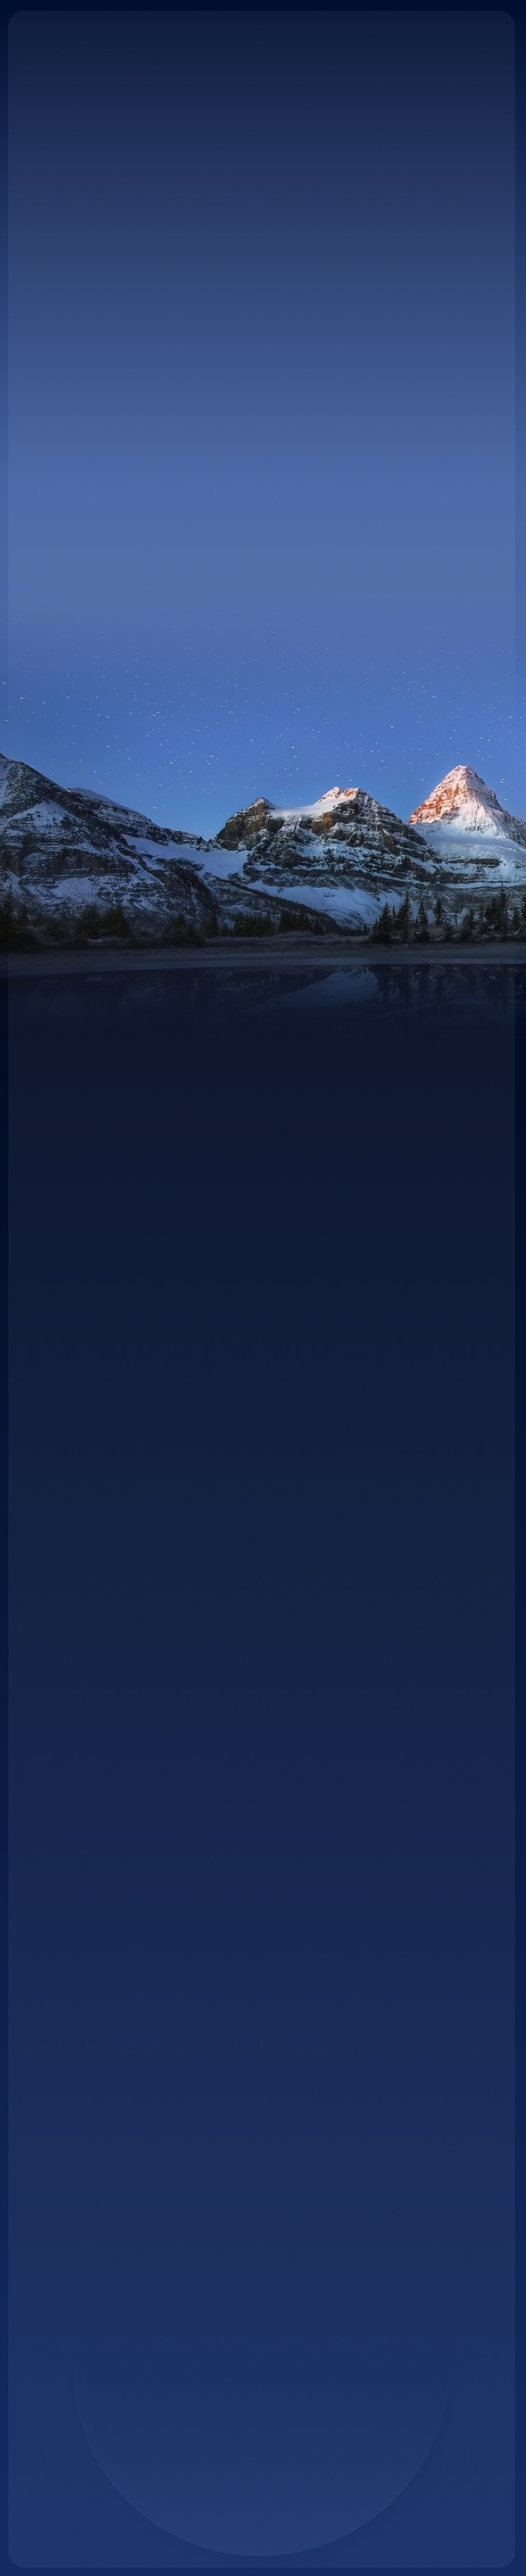
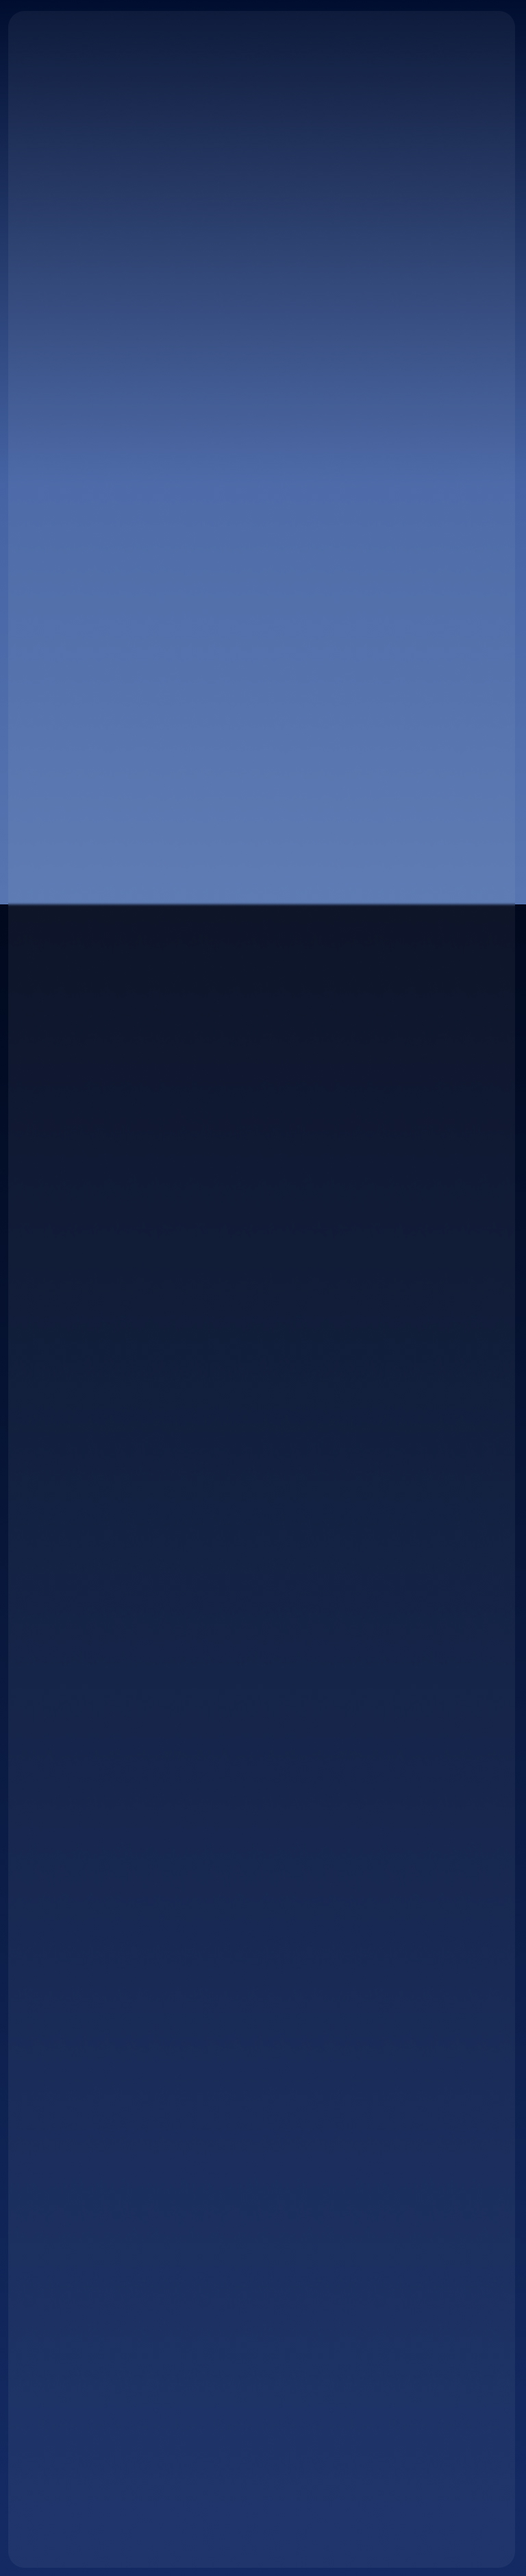
Поправив background

Changed region(s): [[0.0, 0.2803, 1.0, 0.4048]]

diff --git a/css/style.css b/css/style.css
@@ -786,6 +786,7 @@ a {
 @media (max-width: 750px) {
   .advantage {
     margin-bottom: 64px;
+    border-radius: 16px;
   }
   .advantage-block {
     max-width: 100%;
@@ -812,6 +813,20 @@ a {
 
 .preference {
   margin-bottom: 390px;
+  position: relative;
+}
+
+.preference::after {
+  content: '';
+  background-image: url("../img/background-mountains.png");
+  background-repeat: no-repeat;
+  background-position: left top;
+  display: block;
+  position: absolute;
+  width: 100%;
+  height: 1434px;
+  bottom: -920px;
+  z-index: -999;
 }
 
 .preference-block {
@@ -876,6 +891,11 @@ a {
   .preference {
     margin-bottom: 100px;
   }
+  .preference::after {
+    height: 1144px;
+    background-position: -100px top;
+    bottom: -11%;
+  }
   .preference-block {
     flex-direction: column;
     align-items: center;
@@ -902,9 +922,25 @@ a {
   }
 }
 
+@media (max-width: 600px) {
+  .preference::after {
+    bottom: -30%;
+  }
+}
+
 @media (max-width: 400px) {
   .preference {
-    margin-bottom: 320px;
+    margin-bottom: 250px;
+  }
+  .preference::after {
+    bottom: -660px;
+    background-position: -600px top;
+  }
+}
+
+@media (min-width: 1366px) {
+  .preference::after {
+    background-size: 100% 100%;
   }
 }
 
@@ -1268,6 +1304,24 @@ a {
   margin-bottom: 32px;
   padding-top: 82px;
   padding-bottom: 85px;
+  position: relative;
+}
+
+.connection::after {
+  content: '';
+  background-image: url("../img/background-elipse.png");
+  background-repeat: no-repeat;
+  background-size: 100%;
+  background-position: 0 100%;
+  display: block;
+  position: absolute;
+  width: 713px;
+  height: 713px;
+  bottom: -179px;
+  left: 50%;
+  margin-left: -355px;
+  z-index: -999;
+  border-radius: 50%;
 }
 
 .connection__title {
@@ -1368,6 +1422,12 @@ a {
     padding-top: 40px;
     padding-bottom: 43px;
   }
+  .connection::after {
+    height: 550px;
+    margin-left: 0;
+    left: 10%;
+    max-width: 83%;
+  }
   .connection__title {
     font-size: 34px;
     margin-bottom: 36px;
@@ -1381,12 +1441,22 @@ a {
   }
 }
 
+@media (max-width: 768px) {
+  .connection::after {
+    bottom: -150px;
+  }
+}
+
 @media (max-width: 750px) {
   .connection {
     background-color: transparent;
     border-radius: 0;
     margin-bottom: 20px;
     padding: 0;
+    border-radius: 16px;
+  }
+  .connection::after {
+    bottom: -135px;
   }
   .connection__title {
     color: #ffffff;
@@ -1417,6 +1487,10 @@ a {
 @media (max-width: 500px) {
   .connection {
     margin-bottom: 10px;
+  }
+  .connection::after {
+    height: 200px;
+    bottom: -90px;
   }
   .connection__title {
     font-size: 30px;

diff --git a/sass/blocks/_connection.sass b/sass/blocks/_connection.sass
@@ -8,6 +8,22 @@
   margin-bottom: 32px
   padding-top: 82px
   padding-bottom: 85px
+  position: relative
+  &::after
+    content: ''
+    background-image: url('../img/background-elipse.png')
+    background-repeat: no-repeat
+    background-size: 100%
+    background-position: 0 100%
+    display: block
+    position: absolute
+    width: 713px
+    height: 713px
+    bottom: -179px
+    left: 50%
+    margin-left: -355px
+    z-index: -999
+    border-radius: 50%
   &__title
     font-size: 48px
     line-height: 98.19%
@@ -78,6 +94,11 @@
   .connection
     padding-top: 40px
     padding-bottom: 43px
+    &::after
+      height: 550px
+      margin-left: 0
+      left: 10%
+      max-width: 83%
     &__title
       font-size: 34px
       margin-bottom: 36px
@@ -87,12 +108,19 @@
       &__item
         &:last-child
           width: 47%
+@media ( max-width: 768px )
+  .connection
+    &::after
+      bottom: -150px
 @media ( max-width: 750px )
   .connection
     background-color: transparent
     border-radius: 0
     margin-bottom: 20px
     padding: 0
+    border-radius: 16px
+    &::after
+      bottom: -135px
     &__title
       color: #ffffff
       margin-bottom: 16px
@@ -116,5 +144,8 @@
 @media ( max-width: 500px )
   .connection
     margin-bottom: 10px
+    &::after
+      height: 200px
+      bottom: -90px
     &__title
       font-size: 30px

diff --git a/sass/blocks/_preference.sass b/sass/blocks/_preference.sass
@@ -1,5 +1,17 @@
 .preference
   margin-bottom: 390px
+  position: relative
+  &::after
+    content: ''
+    background-image: url('../img/background-mountains.png')
+    background-repeat: no-repeat
+    background-position: left top
+    display: block
+    position: absolute
+    width: 100%
+    height: 1434px
+    bottom: -920px
+    z-index: -999
   &-block
     display: flex
     justify-content: space-between
@@ -44,6 +56,10 @@
 @media ( max-width: 750px )
   .preference
     margin-bottom: 100px
+    &::after
+      height: 1144px
+      background-position: -100px top
+      bottom: -11%
     &-block
       flex-direction: column
       align-items: center
@@ -63,6 +79,17 @@
         text-align: center
         font-size: 16px
         line-height: 23px
+@media ( max-width: 600px )
+  .preference
+    &::after
+      bottom: -30%
 @media ( max-width: 400px )
   .preference
-    margin-bottom: 320px
+    margin-bottom: 250px
+    &::after
+      bottom: -660px
+      background-position: -600px top
+@media ( min-width: 1366px )
+  .preference
+    &::after
+      background-size: 100% 100%

diff --git a/sass/blocks/_advantage.sass b/sass/blocks/_advantage.sass
@@ -53,6 +53,7 @@
 @media ( max-width: 750px )
   .advantage
     margin-bottom: 64px
+    border-radius: 16px
     &-block
       max-width: 100%
       flex-direction: column
